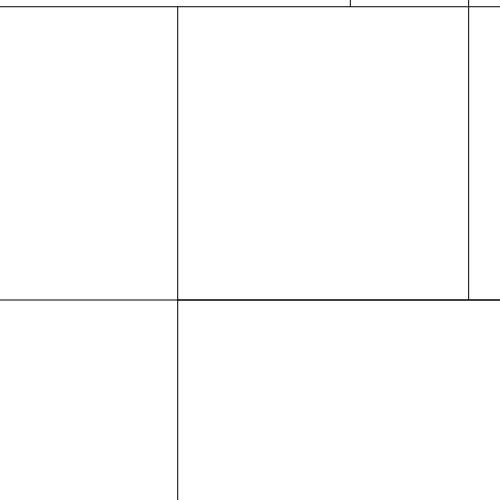
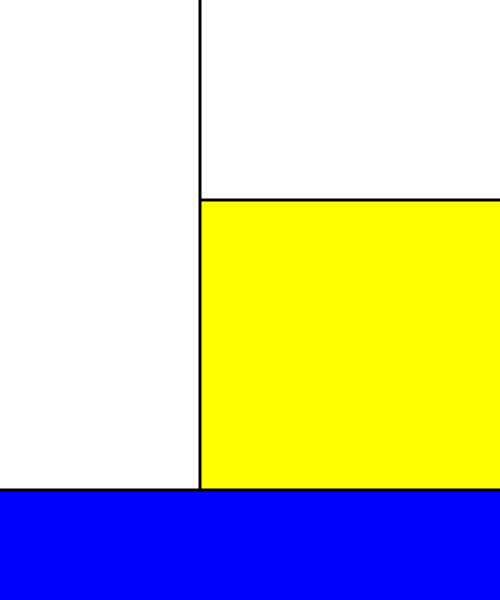
colors working

diff --git a/draw.py b/draw.py
@@ -9,6 +9,8 @@
 
 
 from mondrian import gen_lines
+from random import random, choice
+import drawBot
 
 
 def tup_pairs_from_lines(x_lines, y_lines, mult=1):
@@ -17,22 +19,80 @@ def tup_pairs_from_lines(x_lines, y_lines, mult=1):
     return x_pairs + y_pairs
 
 
-def draw_lines(x_lines, y_lines, width, height, out_fn):
-    mult = 5
+def draw_lines(x_lines, y_lines, mult):
     tup_pairs = tup_pairs_from_lines(x_lines, y_lines, mult)
-    import drawBot
+    drawBot.stroke(0)
+    drawBot.strokeWidth(3)
+    for pair in tup_pairs:
+        drawBot.line(*pair)
+
+
+def draw_rect(x0, xf, y0, yf, mult):
+    white_chance = .65
+    if random() < white_chance:
+        drawBot.fill(1)
+        color = 'white'
+    else:
+        colors = ['red', 'yellow', 'blue']
+        rgb_from_color = {'red': (1, 0, 0),
+                          'yellow': (1, 1, 0),
+                          'blue': (0, 0, 1)}
+        color = choice(colors)
+        drawBot.fill(*rgb_from_color[color])
+
+    print(color, 'from', f'x: {x0} --> {xf}', f'y: {y0} --> {yf}')
+    drawBot.rect(x0*mult, y0*mult, (xf - x0)*mult, (yf - y0)*mult)
+
+
+def extend(c, v, lines, limit):
+    lines_with_v = [line for line in lines if line[1][0] <= v <= line[1][1]]
+    i = 0
+    while True:
+        if any([line[0] == c+i for line in lines_with_v]) or c+i == limit:
+            cf = c+i
+            break
+        i += 1
+    i = 0
+    while True:
+        if any([line[0] == c-i for line in lines_with_v]) or c-i == 0:
+            c0 = c-i
+            break
+        i += 1
+    return c0, cf
+
+
+def draw_colors(x_lines, y_lines, width, height, mult):
+    coord_pairs = [(x, y) for x in range(width) for y in range(height-1)]
+    while len(coord_pairs) > 0:
+        x, y = coord_pairs[0]
+        print(x, y)
+        y0, yf = extend(y, x, x_lines, height)
+        x0, xf = extend(x, y, y_lines, height)
+        print(x0, xf)
+        print(y0, yf)
+        draw_rect(x0, xf, y0, yf, mult)
+        print()
+        coord_pairs = [(x, y) for x, y in coord_pairs
+                       if not (x0 <= x <= xf and y0 <= y <= yf)]
+
+
+def draw(x_lines, y_lines, width, height, out_fn):
+    mult = 10
+
     drawBot.newDrawing()
     drawBot.newPage(width*mult, height*mult)
     drawBot.fill(1, 1, 1)
     drawBot.rect(0, 0, width*mult, height*mult)
-    drawBot.stroke(0)
-    for pair in tup_pairs:
-        drawBot.line(*pair)
+
+    draw_colors(x_lines, y_lines, width, height, mult)
+    draw_lines(x_lines, y_lines, mult)
+
     drawBot.saveImage(out_fn)
     drawBot.endDrawing()
 
 
 if __name__ == '__main__':
-    lines = gen_lines(100, 100, [(40, (20, 80))], [])
+    w, h = 50, 60
+    lines = gen_lines(w, h, [(40, (20, 30))], [])
     print(lines)
-    draw_lines(*lines, 100, 100, 'test.png')
+    draw(*lines, w, h, 'test.png')

diff --git a/mondrian.py b/mondrian.py
@@ -57,7 +57,7 @@ def build_terminus(const, v, direction, opps, limit, opp_limit,
     else:
         if random() < (1 - 2*border_chance):
             # continuing the current line, maybe doing something else
-            step = random() * direction * 20
+            step = round(random() * direction * 20)
 
             # in this list comp, need to check both ways if step is negative
             opps_with_v = [opp for opp in opps if
